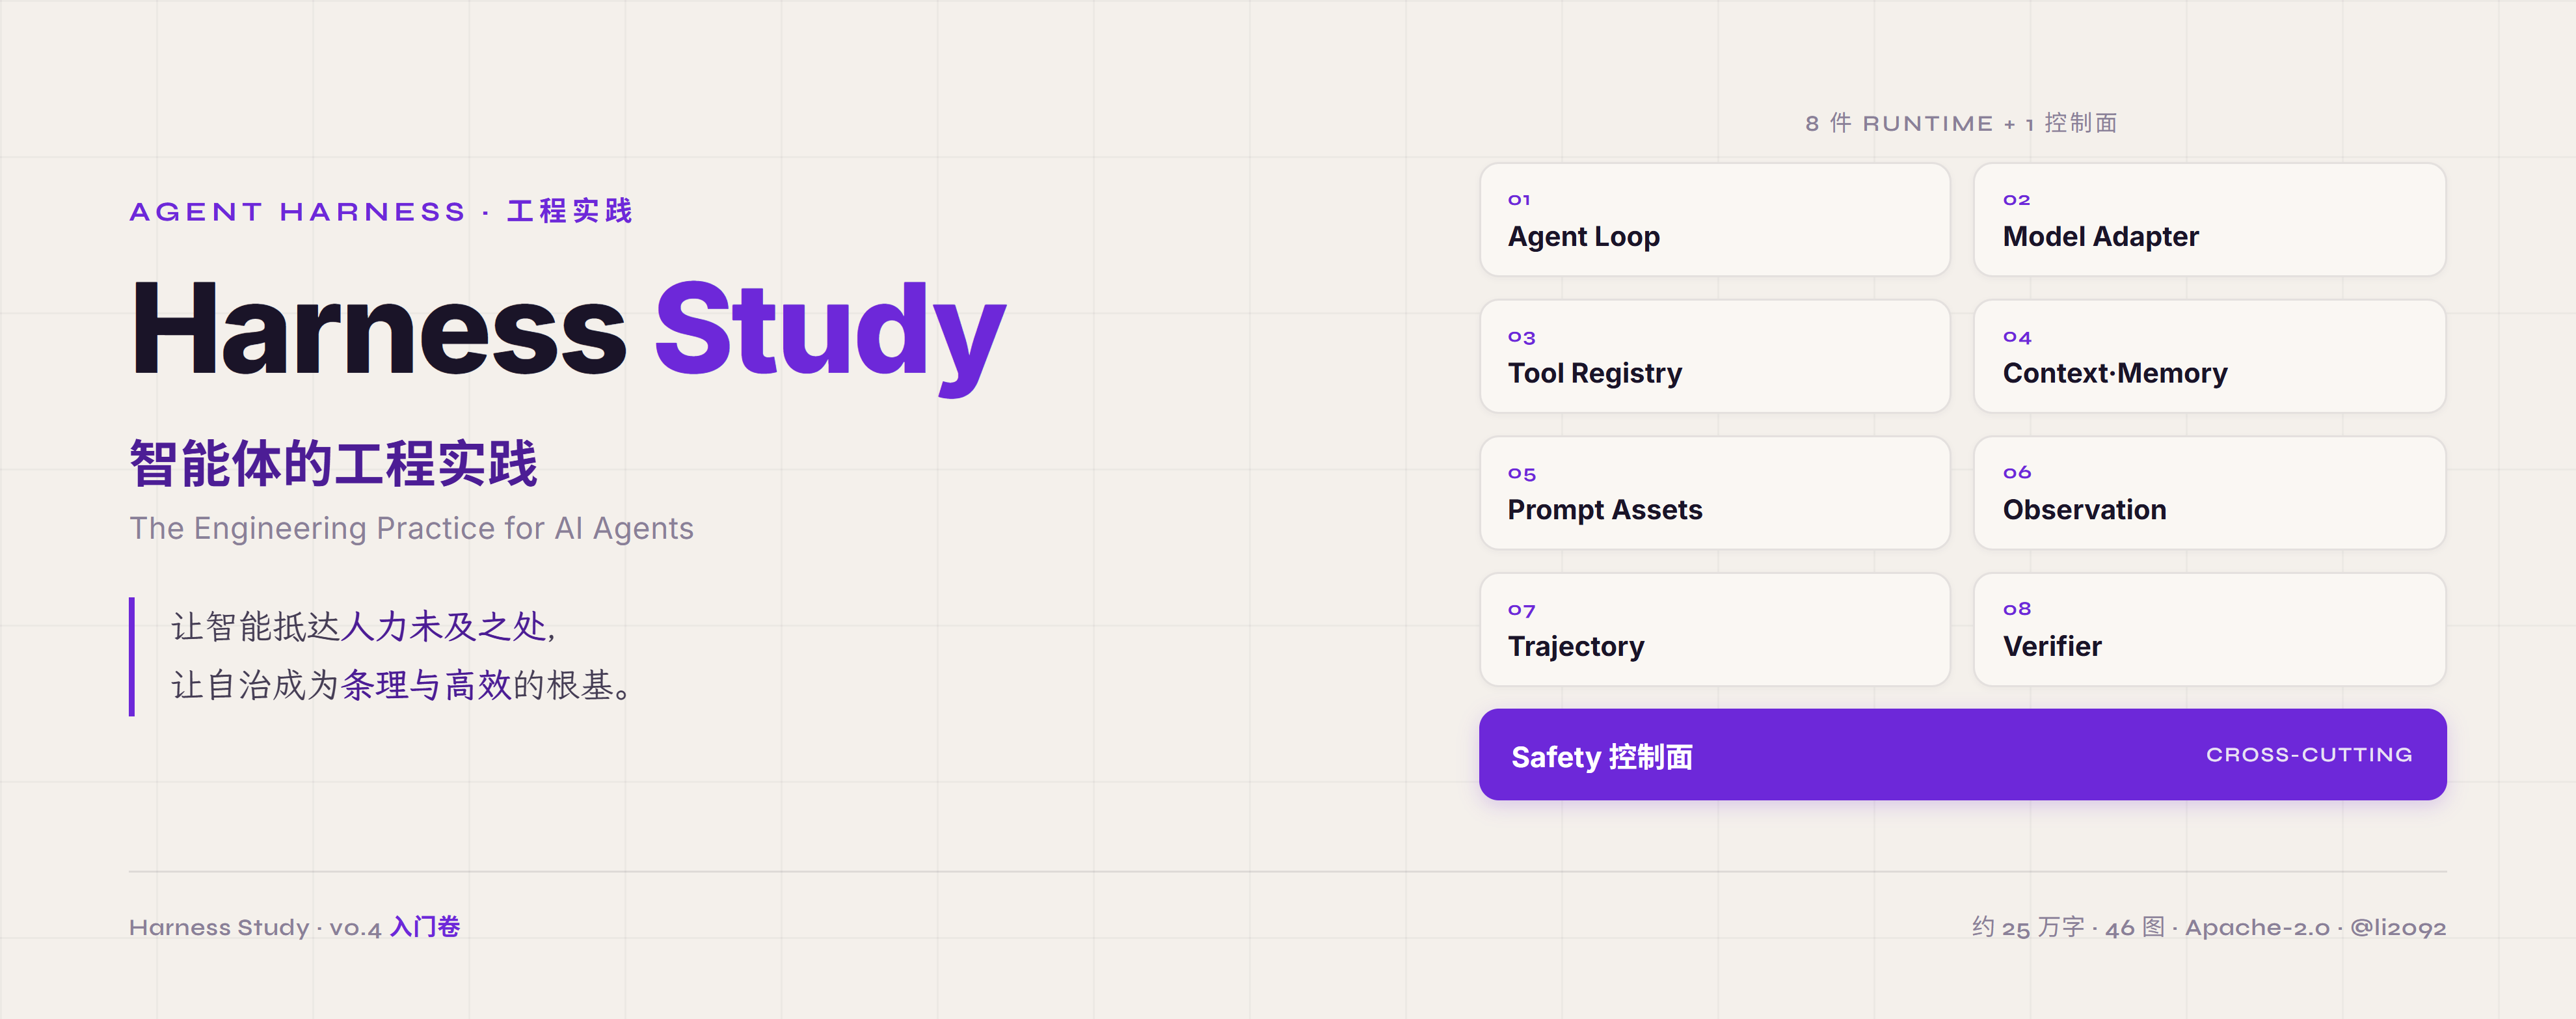
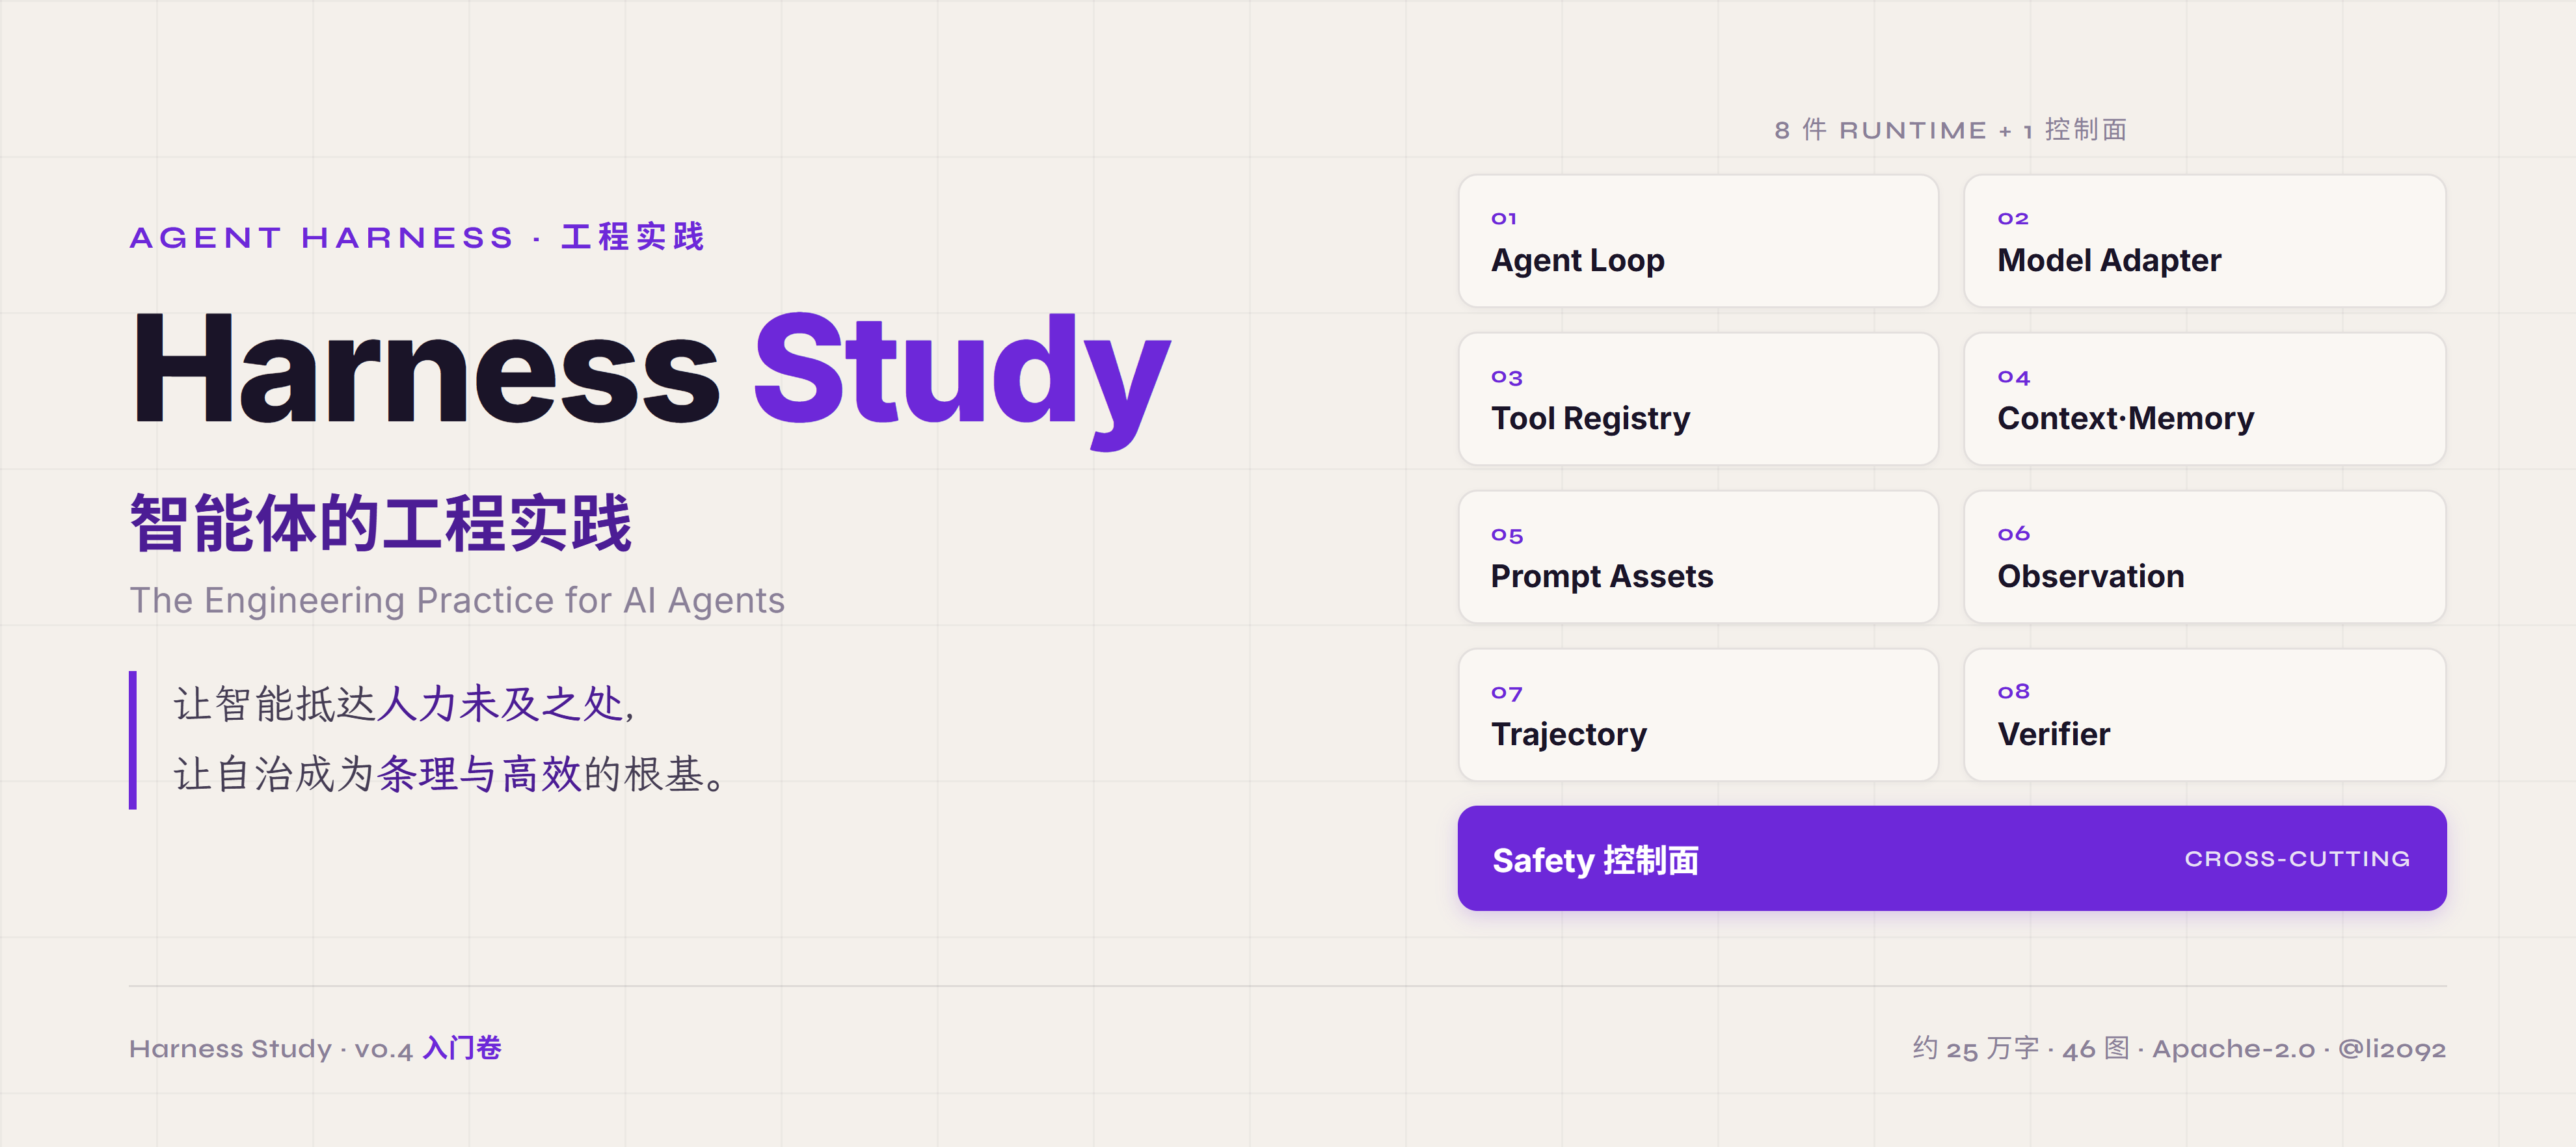
docs(readme): 放大 hero 封面字号 + §5.10 目录名补全
- hero 标题 / 中文名 / slogan / 卡片字号整体加大一档，显示更清晰
- §5.10 目录名「微型流程」→「一次 turn 的微型流程（单 turn 走查）」消歧义，跟 §5.11 中型端到端形成微型↔中型对照

diff --git a/README.en.md b/README.en.md
@@ -119,7 +119,7 @@ Follow the `prev` / `next` chain in each chapter's frontmatter. The entry hook a
 | §5.7 | Trajectory |
 | §5.8 | Verifier |
 | §5.9 | Safety |
-| §5.10 | Micro-flows |
+| §5.10 | A single turn, walked through step by step |
 | §5.11 | End-to-end 17 turns |
 | §VI | Engineering patterns |
 | §VII | Harness Lab — the outer optimisation loop |

diff --git a/README.md b/README.md
@@ -120,7 +120,7 @@
 | §5.7 | Trajectory |
 | §5.8 | Verifier |
 | §5.9 | Safety |
-| §5.10 | 微型流程 |
+| §5.10 | 一次 turn 的微型流程（单 turn 走查）|
 | §5.11 | 端到端 17 turn |
 | §六 | 工程模式 |
 | §七 | Harness Lab · 调优外循环 |